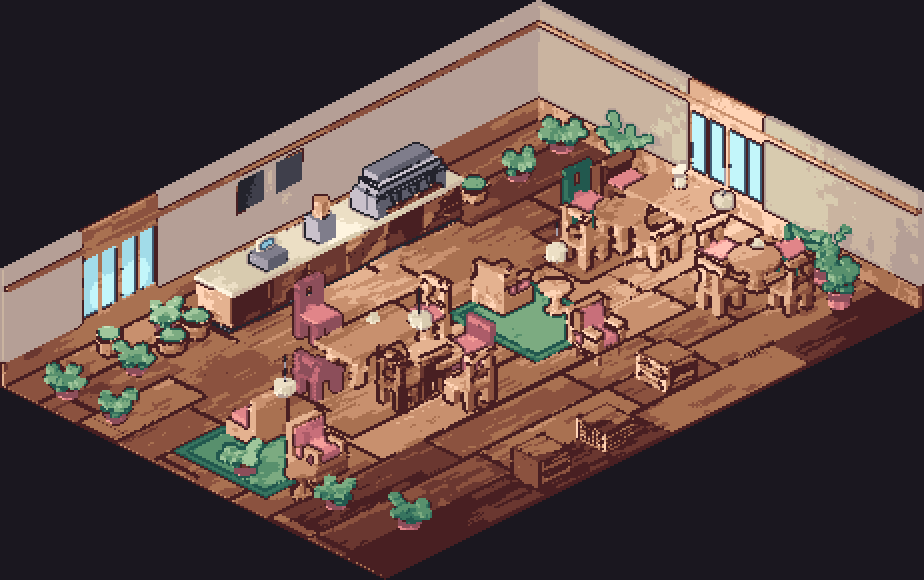
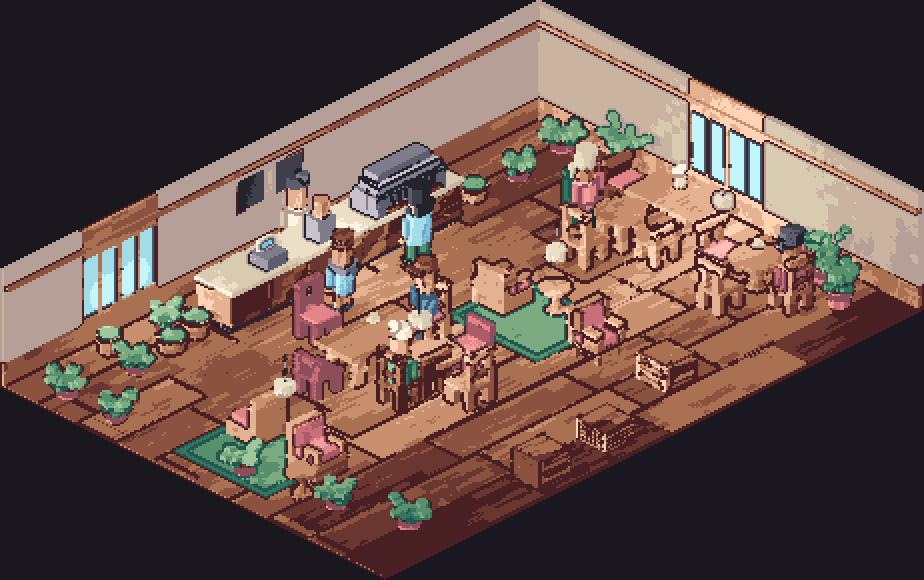
Put people in the generated room
The cast is C.generate_roster, so the character solver makes people the room
has never seen and the room solver sorts them into the three places a cafe's
occupants go: the staff side of the run, the queue band, and whatever seats got
placed. Neither generator knows about the other -- the plan supplies all three.

The queue steps along the screen-horizontal, which is the reference room's
finding reapplied: a line of people along x+y is one person with extra depth.

Occupants fixed the focal reading too. The barista puts skin and a dark apron
where the eye is meant to land, and the counter's contrast lead went from +0.054
to +0.101.

One defect here is invisible to the whole ratchet: build(seated=True) authors
the legs about a hip at 0.45 and a bar stool stands at 0.62-0.78, so a customer
assigned to a stool is ground-clamped, does not float, and sits in mid-air
beside it. grounded() measures distance to the floor and there is none to
measure. Seats are chairs and armchairs only until the seated rig takes a seat
height.

Claude-Session: https://claude.ai/code/session_01Q5KEMm7eqHrVgYtYGEkSmS

diff --git a/tools/build_plan.py b/tools/build_plan.py
@@ -24,6 +24,7 @@ from pathlib import Path
 
 sys.path.insert(0, str(Path(__file__).parent))
 import assetlib as A  # noqa: E402
+import character as C  # noqa: E402
 import floorplan as F  # noqa: E402
 from layout import Layout  # noqa: E402
 from mesh import LightRig, Pool  # noqa: E402
@@ -287,8 +288,89 @@ def build(plan: F.Plan) -> Layout:
             add(A.pendant_lamp(), at=((z.x0 + z.x1) / 2 - 0.5,
                                       (z.y0 + z.y1) / 2 - 0.5, 0.60),
                 name=f"decor#lamp{zi}", track=False)
+    made += _people(L, plan)
     L.generated = made
     return L
+
+
+def _people(L: Layout, plan: F.Plan, n: int = 7, seed: int = 1) -> int:
+    """A barista, a queue, and customers in whatever seats were placed.
+
+    The cast is `C.generate_roster`, so the two generators meet here: the
+    character solver makes people the room has never seen, and the room solver
+    puts them where the plan says people go. Neither knows about the other --
+    the plan supplies a service side, a queue band and a set of seats, and
+    those are the three things a cafe's occupants are sorted into.
+
+    A queue runs ACROSS the view, not into it. The reference room recorded this
+    the expensive way: two customers 1.5 tiles apart in world space sat 0.1
+    apart on screen and the near one hid 74% of the far one. The camera looks
+    down +x/+y, so a line of people spread along x - y stays legible and a line
+    along x + y is one person with extra depth.
+    """
+    roster = C.generate_roster(n, seed)
+    run = plan.of("service")[0]
+    horizontal = run.facing == 0.0
+    placed = 0
+
+    def put(mesh, at, rot, name):
+        nonlocal placed
+        before = len(L.items)
+        L.add(mesh, at=at, rot=rot, name=name)
+        if len(L.items) == before:
+            return
+        cand = L.items[-1]
+        L.items.pop()
+        if L._conflicts(cand, 45.0, 0.35):
+            L.rots.pop(name, None)
+            return
+        L.items.append(cand)
+        placed += 1
+
+    # Barista, on the staff side of the run, facing the customers.
+    if horizontal:
+        put(C.build(C.BARISTA), ((run.x0 + run.x1) / 2, run.y0 - 0.42, 0.0),
+            180, "char#barista")
+    else:
+        put(C.build(C.BARISTA), (run.x0 - 0.42, (run.y0 + run.y1) / 2, 0.0),
+            90, "char#barista")
+
+    # The queue, stepped along the screen-horizontal so nobody hides anybody.
+    q = plan.of("queue")
+    if q:
+        band = q[0]
+        for i, spec in enumerate(roster[:2]):
+            t = 0.30 + 0.34 * i
+            if horizontal:
+                at = (band.x0 + band.w * t, band.y0 + 0.45 + i * 0.30, 0.0)
+                rot = 180
+            else:
+                at = (band.x0 + 0.45 + i * 0.30, band.y0 + band.d * t, 0.0)
+                rot = 90
+            put(C.build(spec), at, rot, f"char#queue{i}")
+
+    # Everyone else sits. Seats are taken in a strided order rather than the
+    # first few, because scatter fills a zone at a time and the first few are
+    # all in one corner -- a cafe with one full table and three empty ones.
+    # Chairs and armchairs only. `C.build(seated=True)` authors the legs about
+    # a hip at SEAT_Z=0.45, and a bar stool stands at 0.62 to 0.78 -- the
+    # figure is ground-clamped, so it does not float and `grounded` never
+    # complains, it just sits in mid-air beside the stool at dining height.
+    # A check that measures the floor cannot see a seat height.
+    seats = [q for q in L.items
+             if q.name.startswith(("chair#", "seat#arm"))]
+    if seats:
+        stride = max(1, len(seats) // max(1, len(roster) - 2))
+        for i, spec in enumerate(roster[2:]):
+            k = (i * stride + 1) % len(seats)
+            st = seats[k]
+            cx, cy = (st.x0 + st.x1) / 2, (st.y0 + st.y1) / 2
+            put(C.build(spec, seated=True), (cx, cy, 0.0),
+                L.rots.get(st.name, 0.0), f"char#sit{i}")
+    return placed
+
+
+
 
 
 def check_built_rooms(n: int = 6, seed: int = 1) -> list[str]:

diff --git a/tools/layout.py b/tools/layout.py
@@ -51,6 +51,11 @@ TUCK_OK = {
     frozenset({"char", "counter"}), frozenset({"clutter", "counter"}),
     frozenset({"prop", "wall"}), frozenset({"decor", "wall"}),
     frozenset({"chair", "clutter"}), frozenset({"char", "clutter"}),
+    # An armchair is named `seat#arm...` and a bench `seat#bench...`, and a
+    # character sitting in one interpenetrates it exactly as a character on a
+    # `chair` does. The reference room never needed this because it seats
+    # everyone on dining chairs.
+    frozenset({"char", "seat"}),
 }
 
 

diff --git a/ART_CRITIQUE.md b/ART_CRITIQUE.md
@@ -1551,10 +1551,29 @@ render is still byte-identical across processes.
   48 coordinates are actually made of, and the ratchet has not caught up to
   them because nobody has yet been surprised by their absence in a way that
   could be written down as a rule.
-- No characters are placed in a generated room. The reference room positions
-  six by hand, and the plan has the information to do better than that — a
-  queue band, seats, a service side — but "who is standing where" is a
-  simulation question rather than a layout one.
+### And the two generators met
+
+A generated room is now occupied. The cast is `C.generate_roster`, so the
+character solver makes people the room has never seen and the room solver sorts
+them into the three places a cafe's occupants go — the staff side of the run, the
+queue band, and whatever seats got placed. Neither generator knows about the
+other; the plan supplies all three.
+
+The queue is stepped along the screen-horizontal, which is the reference room's
+finding reapplied: two customers 1.5 tiles apart in world space sat 0.1 apart on
+screen and the near one hid 74% of the far one. Occupants also fixed the focal
+reading — the barista puts skin and a dark apron right where the eye is supposed
+to land, and the counter's contrast lead went from +0.054 to **+0.101**.
+
+One defect here is invisible to every check in the ratchet. `C.build(seated=True)`
+authors the legs about a hip at SEAT_Z 0.45, and a bar stool stands at 0.62–0.78,
+so a customer assigned to a stool is ground-clamped, does not float, and sits in
+mid-air beside it at dining height. `grounded` measures the distance to the floor
+and there is none to measure. Seats are chairs and armchairs only, and the real
+fix — a seated rig that takes the seat height it is sitting on — is not written.
+
+- Seated characters are placed on chairs and armchairs but not stools or
+  benches, because the seated rig has one hip height baked into it.
 - The plan generator has one topology: a straight run against a far wall with
   the seating in strips. An island counter, an L-shaped run, or a counter
   facing the door are all cafes it cannot propose. The measured 43% mean layout
